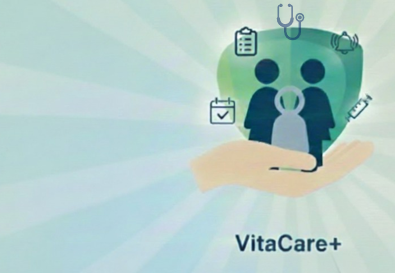
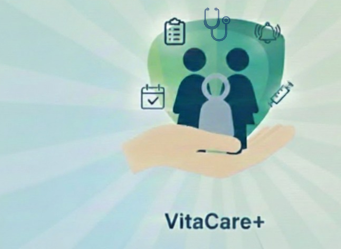
Changes

Changed region(s): [[0.3519, 0.0, 0.9677, 0.759], [0.4399, 0.8153, 0.8798, 0.9277], [0.4399, 0.9277, 0.4692, 0.9558]]

diff --git a/src/pages/Landing.tsx b/src/pages/Landing.tsx
@@ -36,27 +36,29 @@ const Landing = () => {
       <Navigation />
 
       {/* Hero Section */}
-      <section className="relative overflow-hidden pt-32 pb-20 px-4 min-h-[600px] flex items-center">
-        {/* Hintergrundbild mit Strahlen */}
+      <section className="relative overflow-hidden pt-24 md:pt-32 pb-16 md:pb-20 px-4 min-h-[500px] md:min-h-[600px] flex items-center">
+        {/* Hintergrundbild - responsiv angepasst */}
         <div 
-          className="absolute inset-0 bg-[length:100%_100%] bg-center bg-no-repeat"
+          className="absolute inset-0 bg-cover bg-center md:bg-right bg-no-repeat opacity-90"
           style={{ backgroundImage: `url(${heroBackground})` }}
         />
+        {/* Overlay für bessere Lesbarkeit auf Mobile */}
+        <div className="absolute inset-0 bg-gradient-to-r from-background/80 via-background/50 to-transparent md:from-background/60 md:via-background/30 md:to-transparent" />
         
         <div className="container mx-auto relative z-10">
-          <div className="grid lg:grid-cols-2 gap-12 items-center">
+          <div className="grid lg:grid-cols-2 gap-8 md:gap-12 items-center">
             {/* Text links */}
-            <div className="space-y-6 animate-fade-in text-left">
-              <h1 className="text-4xl md:text-5xl lg:text-6xl font-bold leading-tight text-foreground">
+            <div className="space-y-4 md:space-y-6 animate-fade-in text-center md:text-left">
+              <h1 className="text-3xl sm:text-4xl md:text-5xl lg:text-6xl font-bold leading-tight text-foreground">
                 Ihre Gesundheit,{" "}
                 <span className="bg-gradient-primary bg-clip-text text-transparent">
                   immer im Blick
                 </span>
               </h1>
-              <p className="text-lg md:text-xl text-muted-foreground">
+              <p className="text-base sm:text-lg md:text-xl text-muted-foreground max-w-lg mx-auto md:mx-0">
                 Vorsorge, die mitdenkt. Intelligente Erinnerungen für Impfungen und U-Untersuchungen basierend auf RKI-Empfehlungen.
               </p>
-              <div className="flex flex-col sm:flex-row gap-4 pt-4">
+              <div className="flex flex-col sm:flex-row gap-3 md:gap-4 pt-2 md:pt-4 justify-center md:justify-start">
                 <Link to="/auth">
                   <Button size="lg" className="w-full sm:w-auto">
                     Kostenlos registrieren
